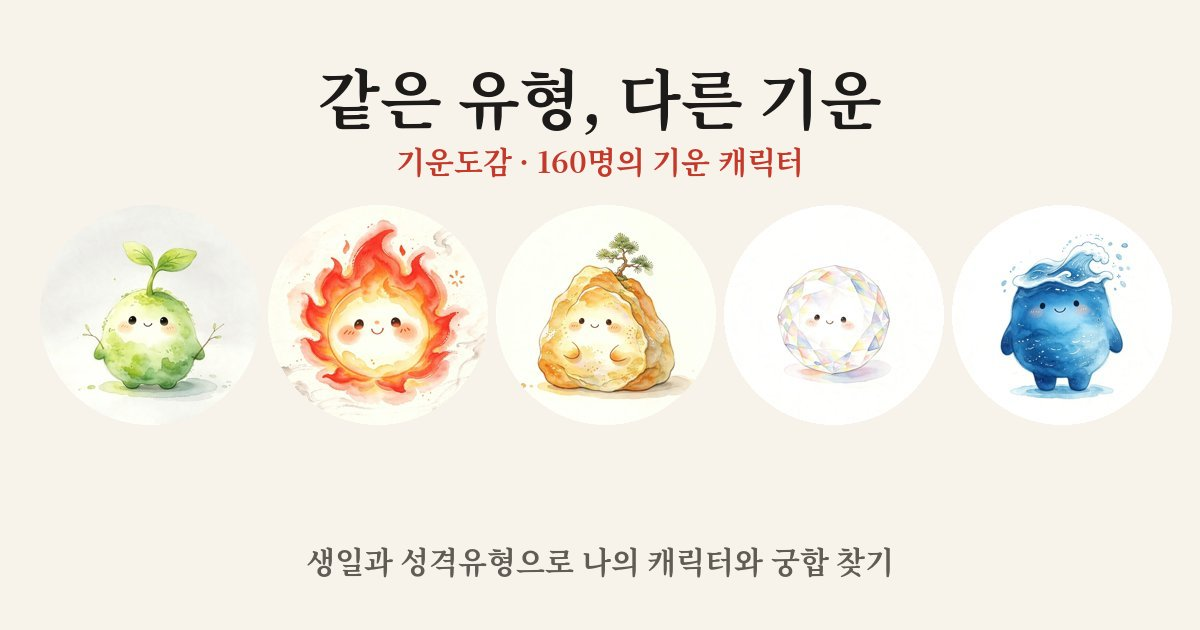
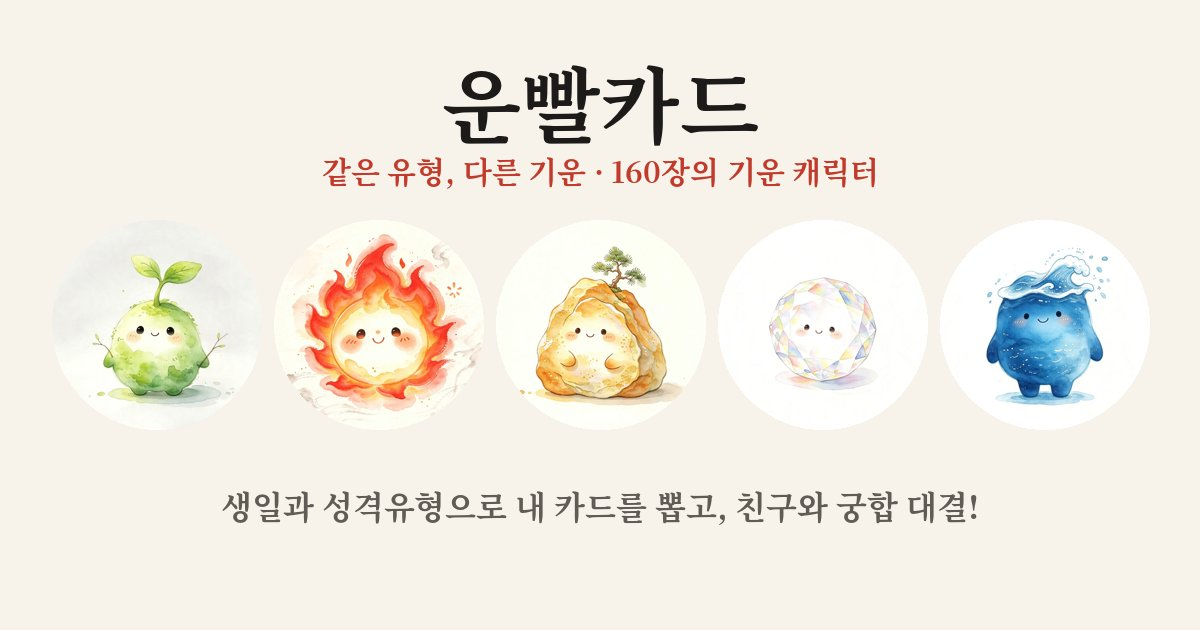
서비스 이름을 운빨카드로 변경
Claude-Session: https://claude.ai/code/session_01QrsKKYEX8ftK28EF2Rbobw

diff --git a/index.html b/index.html
@@ -3,10 +3,10 @@
 <head>
 <meta charset="utf-8">
 <meta name="viewport" content="width=device-width, initial-scale=1">
-<title>기운도감 시제품</title>
+<title>운빨카드 시제품</title>
 <meta name="description" content="태어난 날의 기운과 성격유형으로 찾는 160명의 캐릭터. 같은 유형, 다른 기운.">
 <meta property="og:type" content="website">
-<meta property="og:title" content="기운도감 · 같은 유형, 다른 기운">
+<meta property="og:title" content="운빨카드 · 같은 유형, 다른 기운">
 <meta property="og:description" content="생일과 성격유형으로 나의 기운 캐릭터를 찾아보세요. 친구와 궁합도 볼 수 있어요.">
 <meta property="og:image" content="https://dnpstudio81-cmyk.github.io/img/share/og.jpg">
 <meta property="og:url" content="https://dnpstudio81-cmyk.github.io/">
@@ -148,12 +148,12 @@ h3.mh{font:700 22px/1.3 "Gowun Batang",serif;margin:0 0 4px}
 </head>
 <body>
 <header class="band wrap">
-  <div class="brand"><span class="stamp">氣</span>기운도감 · 시제품</div>
+  <div class="brand"><span class="stamp">運</span>운빨카드 · 시제품</div>
   <h1>같은 유형, 다른 기운</h1>
-  <p class="lead">태어난 날의 일간 10가지와 성격유형 16가지가 만나 160명의 캐릭터가 됩니다. 나는 그중 누구일까요?</p>
+  <p class="lead">태어난 날의 일간 10가지와 성격유형 16가지가 만나 160장의 카드가 됩니다. 나는 어떤 카드를 뽑을까요?</p>
 </header>
 
-<div class="band wrap invite" id="invite" hidden><div class="panel"><b>친구가 보낸 궁합 신청이에요.</b> 내 생일과 유형을 넣고 「내 캐릭터 찾기」를 누르면, 내 캐릭터와 함께 친구와의 궁합이 바로 나와요.</div></div>
+<div class="band wrap invite" id="invite" hidden><div class="panel"><b>친구가 보낸 궁합 신청이에요.</b> 내 생일과 유형을 넣고 「내 카드 뽑기」를 누르면, 내 카드와 함께 친구와의 궁합이 바로 나와요.</div></div>
 
 <section class="band wrap main">
   <form class="panel" id="f" novalidate>
@@ -168,7 +168,7 @@ h3.mh{font:700 22px/1.3 "Gowun Batang",serif;margin:0 0 4px}
       <details class="quiz" id="quiz"><summary>유형을 모르겠어요 · 4문항으로 찾기</summary><div id="qs"></div></details>
     </div>
     <p class="err" id="err" role="alert"></p>
-    <button class="btn" type="submit">내 캐릭터 찾기</button>
+    <button class="btn" type="submit">내 카드 뽑기</button>
     <p class="note">음력 입력과 출생 시간 반영은 정식 버전에서 추가돼요.</p>
   </form>
 
@@ -180,7 +180,7 @@ h3.mh{font:700 22px/1.3 "Gowun Batang",serif;margin:0 0 4px}
         <div class="art"><img id="cImg" alt=""></div>
         <div class="no" id="cNo"></div>
         <div class="ab" id="cAb"></div>
-        <div class="year"><span id="cYear"></span><i>기운도감</i></div>
+        <div class="year"><span id="cYear"></span><i>운빨카드</i></div>
       </div>
     </article>
     <div class="actions">
@@ -260,14 +260,14 @@ h3.mh{font:700 22px/1.3 "Gowun Batang",serif;margin:0 0 4px}
 
 <section class="band wrap compat">
   <form class="panel" id="f2" novalidate>
-    <h2>친구와 궁합 보기</h2>
+    <h2>친구와 궁합 대결</h2>
     <p class="note" style="margin:0 0 14px">친구의 생일과 유형을 넣으면 두 캐릭터의 관계를 알려 드려요.</p>
     <span class="l">친구가 태어난 날 (양력)</span>
     <div class="dsel"><select id="d2Y" aria-label="친구가 태어난 해"></select><select id="d2M" aria-label="친구가 태어난 달"></select><select id="d2D" aria-label="친구가 태어난 날"></select></div>
     <label class="l" for="t2" style="margin-top:14px">친구의 성격유형</label>
     <select id="t2"></select>
     <p class="err" id="err2" role="alert"></p>
-    <button class="btn" type="submit">궁합 보기</button>
+    <button class="btn" type="submit">궁합 대결 시작</button>
   </form>
   <div class="panel" id="cRes">
     <div class="pair"><div class="mini" id="m1"></div><span aria-hidden="true">↔</span><div class="mini" id="m2"></div></div>
@@ -479,7 +479,7 @@ async function makeImg(){const c=cur;if(!c)return;try{await document.fonts.load(
     x.fillStyle=SUB;x.font='400 34px "Noto Sans KR"';const dl=wrapText(x,a[2],W-280);dl.slice(0,2).forEach((l,i)=>x.fillText(l,186,y+110+i*46));y+=110+Math.min(dl.length,2)*46+18}
   x.strokeStyle='rgba(28,27,25,.2)';x.lineWidth=2;x.beginPath();x.moveTo(80,y);x.lineTo(W-80,y);x.stroke();
   x.fillStyle=INK;x.font='400 36px "Noto Sans KR"';x.textAlign='left';x.fillText(`2027 정미년 · ${c.s.yt}`,80,y+62);
-  x.fillStyle=SUB;x.textAlign='right';x.fillText('기운도감',W-80,y+62);x.textAlign='center';
+  x.fillStyle=SUB;x.textAlign='right';x.fillText('운빨카드',W-80,y+62);x.textAlign='center';
   $('out').src=cv.toDataURL('image/png');$('saveBox').hidden=false;$('saveBox').scrollIntoView({behavior:matchMedia('(prefers-reduced-motion: reduce)').matches?'auto':'smooth'})}
 
 $('t2').innerHTML=TYK.map(k=>`<option value="${k}"${k==='ENFP'?' selected':''}>${k} · ${TY[k][0]}</option>`).join('');
@@ -494,8 +494,8 @@ $('f').addEventListener('submit',e=>{e.preventDefault();const d=getD('d');if(!va
   const t=type.join('');render(d,t,true);$('sample').textContent=`${d.replace(/-/g,'.')} · ${t}`;$('saveBox').hidden=true;try{localStorage.setItem('giun',JSON.stringify({d,t}))}catch(e){}
   if(matchMedia('(max-width:760px)').matches)$('card').scrollIntoView({behavior:'smooth',block:'center'})});
 $('f2').addEventListener('submit',e=>{e.preventDefault();compat()});
-$('shareMe').addEventListener('click',()=>{const c=cur;share({code:code({d:c.dd,t:c.t}),title:`나는 「${c.name}」`,desc:`나는 ${c.s.k} × ${c.t}, 160명 중 No.${String(c.no).padStart(3,'0')} 「${c.name}」이래. 너는 어떤 캐릭터야? 우리 궁합도 봐 줘!`,img:IMG[c.p.s].slice(4,-5),btn:'내 캐릭터 찾기'},'copyMsg')});
-$('shareC').addEventListener('click',()=>{if(!lastC)return;const {a,rel,sc}=lastC;share({code:code({d:a.dd,t:a.t}),title:`우리 궁합은 ${sc}점, 「${rel}」`,desc:`기운도감에서 우리 궁합을 봤어! ${sc}점 「${rel}」이래. 너도 네 생일 넣고 확인해 봐.`,img:IMG[a.p.s].slice(4,-5),btn:'궁합 확인하기'},'copyMsg2')});
+$('shareMe').addEventListener('click',()=>{const c=cur;share({code:code({d:c.dd,t:c.t}),title:`나는 「${c.name}」`,desc:`나는 ${c.s.k} × ${c.t}, 160명 중 No.${String(c.no).padStart(3,'0')} 「${c.name}」이래. 너는 어떤 캐릭터야? 우리 궁합도 봐 줘!`,img:IMG[c.p.s].slice(4,-5),btn:'내 카드 뽑기'},'copyMsg')});
+$('shareC').addEventListener('click',()=>{if(!lastC)return;const {a,rel,sc}=lastC;share({code:code({d:a.dd,t:a.t}),title:`우리 궁합은 ${sc}점, 「${rel}」`,desc:`운빨카드에서 우리 궁합을 봤어! ${sc}점 「${rel}」이래. 너도 네 생일 넣고 확인해 봐.`,img:IMG[a.p.s].slice(4,-5),btn:'궁합 확인하기'},'copyMsg2')});
 $('moreBtn').addEventListener('click',()=>{const d=$('detail'),open=d.hidden;d.hidden=!open;$('moreBtn').textContent=open?'접기 ▴':'자세히 보기 ▾';$('moreBtn').setAttribute('aria-expanded',String(open));if(open)d.scrollIntoView({behavior:matchMedia('(prefers-reduced-motion: reduce)').matches?'auto':'smooth'})});
 $('mkImg').addEventListener('click',makeImg);
 $('unlock').addEventListener('click',()=>{$('lw').classList.remove('locked')});
